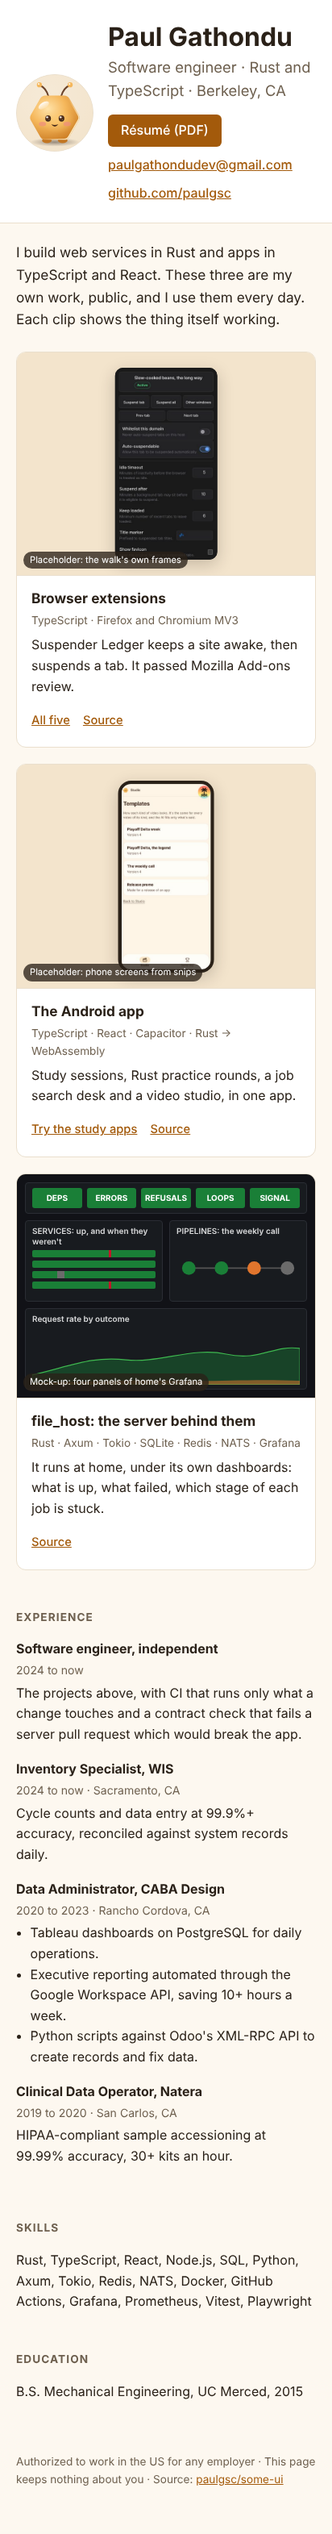
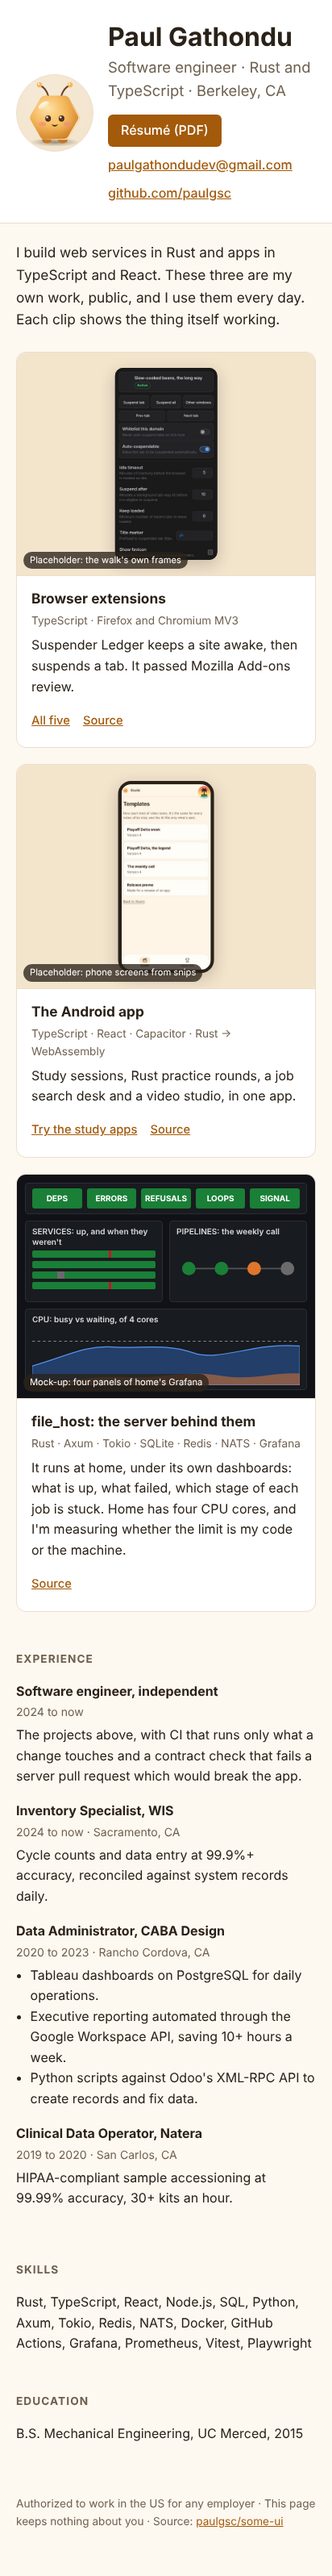
docs(pages): round three, the server's line and CPU panel, the narrowed prune
The server card says what it is stuck on (four cores: the code or the
machine), and the mock's fourth panel is CPU busy vs waiting. The prune
keeps only the landing, /resume with seven PDFs, and /authorship: about
3.5 MB of 5.3 MB saved, measured. The README orders the stories, snips'
own capture-only build first.

Change-Kind: story
Claude-Session: https://claude.ai/code/session_01LDpdUKuUEcbzJQfrAA4h6D

diff --git a/prototypes/pages/d-show/index.html b/prototypes/pages/d-show/index.html
@@ -603,15 +603,16 @@
                 </svg>
               </div>
               <div class="panel area" style="grid-column: 1 / -1">
-                <b>Request rate by outcome</b>
+                <b>CPU: busy vs waiting, of 4 cores</b>
                 <svg viewBox="0 0 400 60" preserveAspectRatio="none">
+                  <path d="M0 14 H400" stroke="#888" stroke-dasharray="4 4" />
                   <path
-                    d="M0 50 C60 40 90 30 140 34 S240 20 290 28 S360 18 400 22 V60 H0Z"
-                    fill="#1a7f3766"
-                    stroke="#3fb950"
+                    d="M0 40 C50 30 80 18 120 20 S200 16 240 26 S330 15 400 19 V60 H0Z"
+                    fill="#3274d966"
+                    stroke="#5794f2"
                   />
                   <path
-                    d="M0 58 C80 57 160 55 220 56 S330 54 400 56 V60 H0Z"
+                    d="M0 58 C60 56 100 50 140 52 S230 44 280 50 S360 46 400 48 V60 H0Z"
                     fill="#e0752d88"
                   />
                 </svg>
@@ -626,7 +627,8 @@
             </p>
             <p>
               It runs at home, under its own dashboards: what is up, what
-              failed, which stage of each job is stuck.
+              failed, which stage of each job is stuck. Home has four CPU cores,
+              and I'm measuring whether the limit is my code or the machine.
             </p>
             <p class="links">
               <a href="https://github.com/paulgsc/server">Source</a>

diff --git a/prototypes/pages/d-show/stuck-inline.html b/prototypes/pages/d-show/stuck-inline.html
@@ -726,15 +726,16 @@
                 </svg>
               </div>
               <div class="panel area" style="grid-column: 1 / -1">
-                <b>Request rate by outcome</b>
+                <b>CPU: busy vs waiting, of 4 cores</b>
                 <svg viewBox="0 0 400 60" preserveAspectRatio="none">
+                  <path d="M0 14 H400" stroke="#888" stroke-dasharray="4 4" />
                   <path
-                    d="M0 50 C60 40 90 30 140 34 S240 20 290 28 S360 18 400 22 V60 H0Z"
-                    fill="#1a7f3766"
-                    stroke="#3fb950"
+                    d="M0 40 C50 30 80 18 120 20 S200 16 240 26 S330 15 400 19 V60 H0Z"
+                    fill="#3274d966"
+                    stroke="#5794f2"
                   />
                   <path
-                    d="M0 58 C80 57 160 55 220 56 S330 54 400 56 V60 H0Z"
+                    d="M0 58 C60 56 100 50 140 52 S230 44 280 50 S360 46 400 48 V60 H0Z"
                     fill="#e0752d88"
                   />
                 </svg>
@@ -749,7 +750,8 @@
             </p>
             <p>
               It runs at home, under its own dashboards: what is up, what
-              failed, which stage of each job is stuck.
+              failed, which stage of each job is stuck. Home has four CPU cores,
+              and I'm measuring whether the limit is my code or the machine.
             </p>
             <p class="links">
               <a href="https://github.com/paulgsc/server">Source</a>

diff --git a/prototypes/pages/d-show/stuck-strip.html b/prototypes/pages/d-show/stuck-strip.html
@@ -713,15 +713,16 @@
                 </svg>
               </div>
               <div class="panel area" style="grid-column: 1 / -1">
-                <b>Request rate by outcome</b>
+                <b>CPU: busy vs waiting, of 4 cores</b>
                 <svg viewBox="0 0 400 60" preserveAspectRatio="none">
+                  <path d="M0 14 H400" stroke="#888" stroke-dasharray="4 4" />
                   <path
-                    d="M0 50 C60 40 90 30 140 34 S240 20 290 28 S360 18 400 22 V60 H0Z"
-                    fill="#1a7f3766"
-                    stroke="#3fb950"
+                    d="M0 40 C50 30 80 18 120 20 S200 16 240 26 S330 15 400 19 V60 H0Z"
+                    fill="#3274d966"
+                    stroke="#5794f2"
                   />
                   <path
-                    d="M0 58 C80 57 160 55 220 56 S330 54 400 56 V60 H0Z"
+                    d="M0 58 C60 56 100 50 140 52 S230 44 280 50 S360 46 400 48 V60 H0Z"
                     fill="#e0752d88"
                   />
                 </svg>
@@ -736,7 +737,8 @@
             </p>
             <p>
               It runs at home, under its own dashboards: what is up, what
-              failed, which stage of each job is stuck.
+              failed, which stage of each job is stuck. Home has four CPU cores,
+              and I'm measuring whether the limit is my code or the machine.
             </p>
             <p class="links">
               <a href="https://github.com/paulgsc/server">Source</a>

diff --git a/prototypes/pages/README.md b/prototypes/pages/README.md
@@ -390,3 +390,86 @@ can't reliably see in, and pages keep changing after they load."
 
 Screens: `shots/contact-sheet-stuck.png` (both, desktop and phone, full page) and
 `shots/d-stuck-{inline,strip}-{desktop,phone}[-full].png`.
+
+## Round 3: the prune narrowed, and the server's "stuck on"
+
+**The server's line and panel.** The owner, as the coordinator paraphrased it: "Home is
+constrained by its 4 CPU cores, and we don't yet know whether our code isn't using them or
+we're truly at the hardware limit." That is the CORES review, #3348, under HWSIM #3309.
+
+- **Card line.** The server card in all three D files now ends: "Home has four CPU cores,
+  and I'm measuring whether the limit is my code or the machine."
+- **Panel.** The mock's fourth panel is now **CPU: busy vs waiting, of 4 cores**. It is
+  WHO DUNNIT's "CPU — busy vs waiting" (`lib/sympathy-panels.libsonnet`), which separates
+  work that is running from work that is waiting for a core. That is the code-or-machine
+  question.
+- **Panels that could stand in for it** (same file):
+  - "CORES · RAM";
+  - "Throttled — share of CPU periods each container was held back";
+  - the file_host dashboard's "CPU — % of each service's limit" (`lib/overview-panels.libsonnet`).
+- **Dropped:** Request Rate by Outcome is no longer among the four.
+- **Personal data:** none of these carries any. Process and container names are service
+  names.
+
+**The prune, narrowed** (the owner: "Pages is a curriculum vitae, nothing else … I only exist
+in the APK"). The Pages build keeps:
+
+- the landing (D);
+- `/resume` and 7 PDFs (one per version, plus `resume.pdf`);
+- `/authorship`.
+
+Everything else leaves: the comb as a route, `/app` and the learning apps, `/sessions`,
+`/practice`, `/profile`, `/settings`, `/auth`, `/rust-rounds-sample`, `/job-run`,
+`/assurance`, `/mission`, `/playoff-delta`, the video stages, honeycomb and LeetType.
+
+**Size.** Measured on today's Pages build by loading `/resume` and `/authorship` at both
+viewports and keeping every file they request:
+
+|          | Today              | After the prune                                      |
+| -------- | ------------------ | ---------------------------------------------------- |
+| Artifact | 5.3 MB, 272 assets | about 1.9 MB (1.51 MB of app files, 0.34 MB of PDFs) |
+| Plus     |                    | the landing's HTML, photo and clips                  |
+
+That saves about **3.5 MB, two thirds of the artifact**. The first visit to `/` goes from 97
+script files (~400 KB gzip) to one static HTML file. `/resume` and `/authorship` still load
+the SPA shell, about 1.3 MB raw. A later, optional story makes each a static page too.
+
+**The order of stories:**
+
+1. **Mandate wording.** Branch `claude/pages-mandate`, C1055 (the owner's call). Wording
+   only. It lands first and is true while the code still serves the viewer.
+2. **Snips gets its own viewer build.** A capture-only profile in `build.profiles.ts` (today's
+   `pages` audiences and `VIEWER_BUILD`, sample data), built only by Snips Capture and never
+   deployed. Snips' `web` surface walks it instead of the Pages build, so every route an essay
+   names (`/rust-rounds-sample`, `/captions`, `/`) still resolves. It is a member of the
+   profile family, beside `lan`, `pages` and `mobile`. `lib/demo` and `viewer-storage` stay,
+   for this build.
+3. **The landing at `/`.** A Vite HTML entry, like `resume/index.html`, filled from the résumé's
+   generated data.
+   - It has the photo slot (the mochi until the photo exists) and clip slots that show stills
+     until the clips exist.
+   - The SPA's shell then needs an address of its own for `/authorship`, as `/resume` has
+     (`authorship/index.html`).
+4. **The prune.**
+   - The `pages` profile offers only `/resume` and `/authorship`: a route gate or a
+     Pages-allowed list in `build.paths.ts`, checked by `check:bundle-paths`.
+   - The 30 layout PDFs come off through `OFF_PATH_PUBLIC_FILES.pages`.
+   - `Root`'s comb branch and `ExtensionsPage`'s `chrome="front"` become dead code and go.
+   - `lan` is untouched.
+   - CLAUDE.md's "A viewer tries" bullet then names the capture build, not Pages.
+5. **Clips, bundled at build time** (never committed). This is `series/card` for the walks
+   (Suspender Ledger on the sandbox stage, which CI can render; Jobs on the APK, which needs
+   the emulator) and the Grafana capture on home through `screen-zoom`.
+   - Open question: where `pages.yml` fetches a clip from when it can't render it itself.
+   - The APK walk runs in the owner-dispatched Snips Capture, whose artifact lives one day.
+   - The Grafana capture happens on home, which CI can't reach.
+   - So these two clips need a public place to wait: a release asset, or paulgsc/testing.
+     That is the owner's call.
+6. **Page Filter's "stuck on" still,** recaptured on a fixture page of ours (a shadow-root
+   widget), not MDN's.
+7. **Optional:** `/resume` and `/authorship` as static pages, which takes the SPA off Pages
+   entirely.
+
+**`/mission`:** it leaves Pages in step 4. On `lan` the only reader is the owner, who has the
+mandates in CLAUDE.md, so I'd remove it there too. That is a call for the owner or the
+coordinator, not part of C1055, which covers Pages only.
